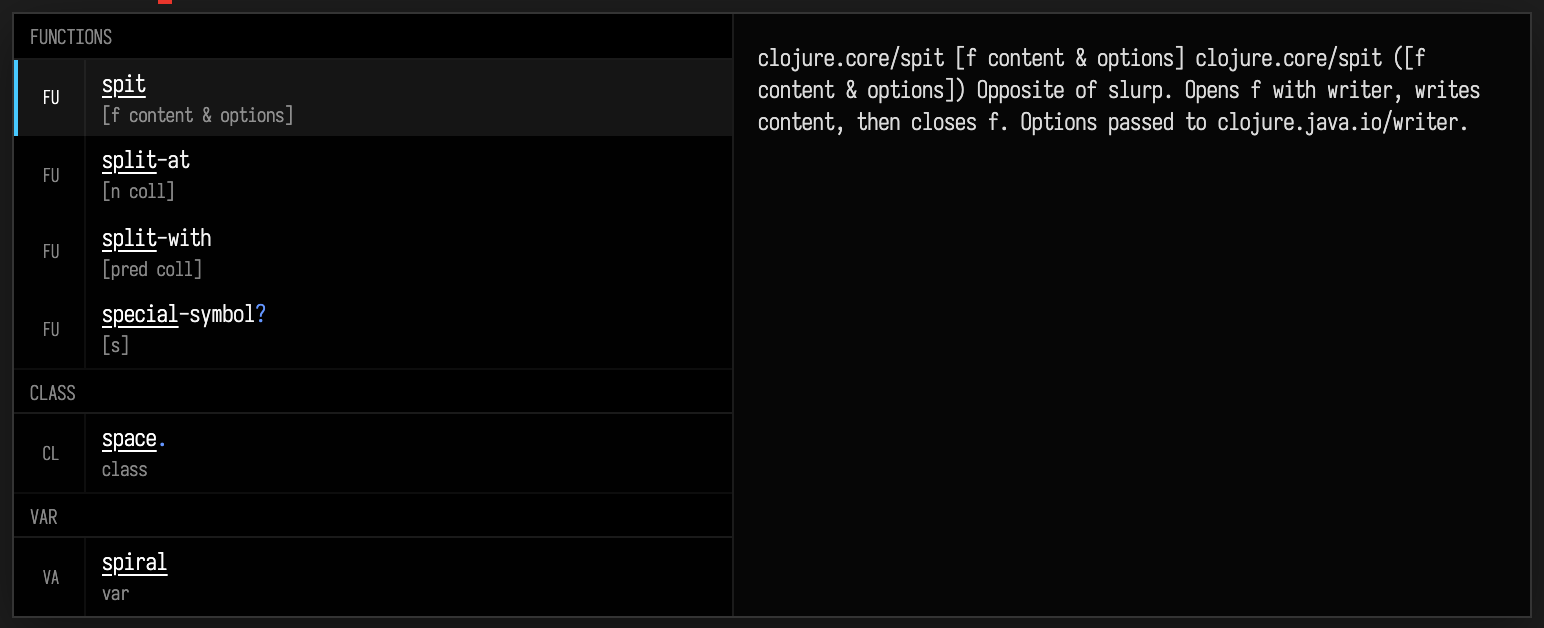
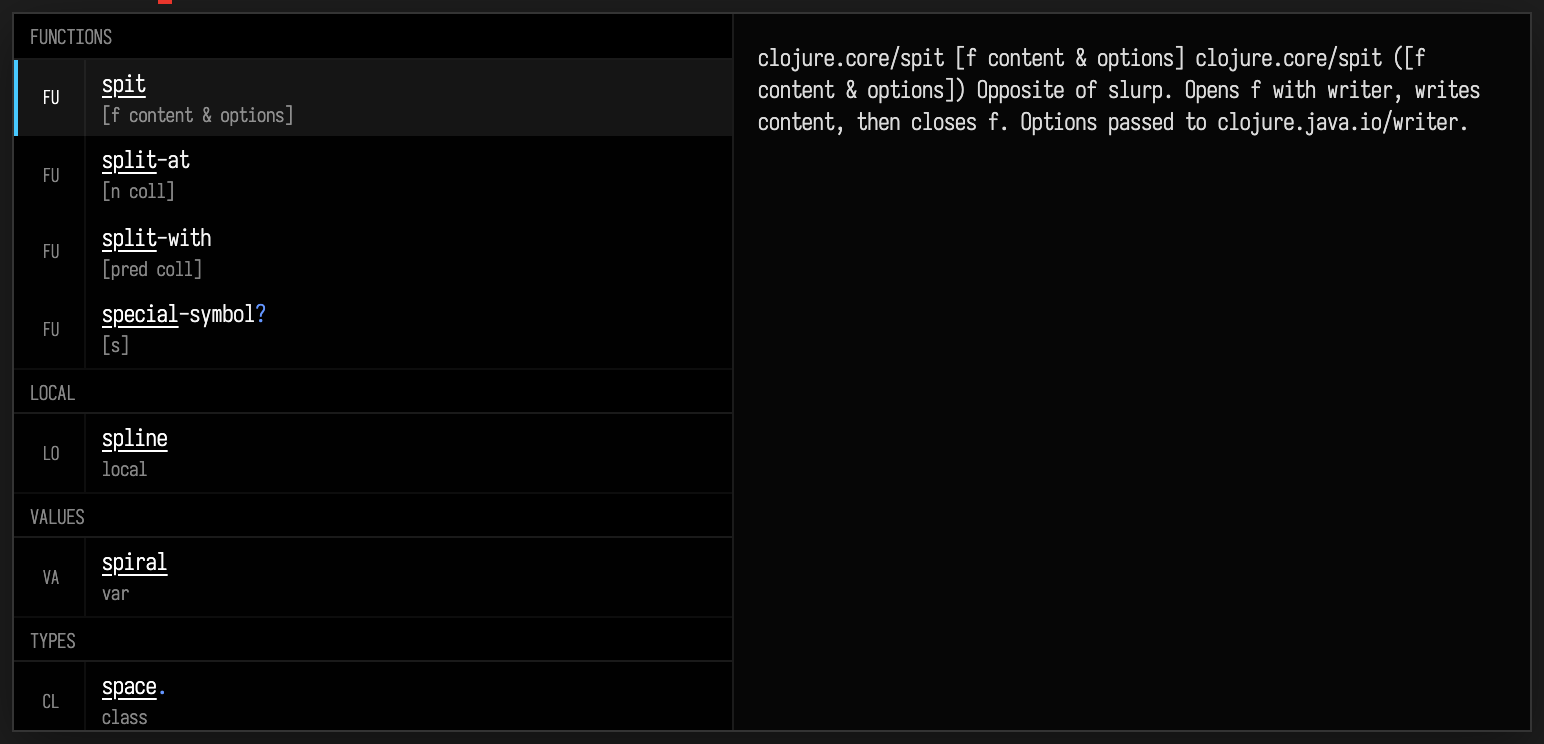
clojure completion: keep the context readable, and give the popup categories it ranks
The local completion the page's figure was supposed to show was never in the payload.
Two independent causes, and the first one is why a unit test could not see it.

**The context has to read, and the text after the caret is not yours.** Compliment can
only know about a `let` binding, a `fn` parameter or a `doseq` variable from the
`:context` string, and it answers a context it cannot read with globals only and no
complaint — so this fails as "locals sometimes work", which looks like the feature
working. The context was the whole buffer with the caret's prefix marked and the open
brackets closed. Logging `CompletionRequest.allCode` from the live server behind the
docs figure gave the buffer a real editor actually sends:

    cursor=53 of 54  code=(let [spline (polyline [[0 0] [10 10]])]\n  (lines [sp)

That trailing `)` is Monaco auto-closing `(lines`, sitting where the `[` wants its `]`.
Closing what is still open then produced `[__prefix__)))`, which does not read — hence
`types={function=4, class=1, var=1}` and no local. The fix is to build the context from
the code **up to** the caret: every form the caret is inside opens before it, so the tail
carries no scope, and in an editor the tail is whatever auto-closing left behind. Same
caret now yields `(lines [__prefix__]))` and the binding is there.

Every completion assertion in `ClojureHostTest` passed a string that stops at the caret,
[…]

Changed region(s): [[0.0, 0.0, 0.9637, 0.8169], [0.4974, 0.0605, 0.9637, 0.2118], [0.0, 0.8169, 0.4663, 0.9984]]

diff --git a/src/jvmMain/kotlin/afield/clojure/ClojureInterface.kt b/src/jvmMain/kotlin/afield/clojure/ClojureInterface.kt
@@ -122,6 +122,33 @@ sealed class EvalResult {
     data class Err(val error: CompileError) : EvalResult()
 }
 
+/**
+ * Compliment's kind of thing, said in the completion popup's own vocabulary.
+ *
+ * `Metadata.category` is not a label: it is the key `CATEGORY_WEIGHT` in
+ * `src/commonMain/resources/fieldSuggest.js` is looked up by, and a name that table does not know
+ * scores **0** — the same as "other". Handing Compliment's own words over unmapped therefore looked
+ * fine, because the popup will title-case anything into a group header (`class` got a group called
+ * "Class"), while ranking every Clojure candidate as bottom-of-the-list filler. `local` is the one
+ * that matters most: that table scores it 28, above every other category, on the grounds that a name
+ * the reader bound two lines up is the best answer a popup can give. It was arriving with no weight
+ * at all.
+ *
+ * A type this does not know keeps its own spelling rather than collapsing to "other", so a new
+ * Compliment source appears under its own header instead of joining a pile. [ClojureHostTest] pins
+ * every mapping here against the shipped table, so a rename on either side is a test failure rather
+ * than a silent demotion.
+ */
+internal fun clojureCompletionCategory(type: String?): String = when (val kind = type?.trim()?.lowercase()) {
+    null, "" -> ""
+    "local" -> "local"
+    "function", "macro", "special-form", "method", "static-method" -> "functions"
+    "var", "keyword", "field", "static-field" -> "values"
+    "class", "import" -> "types"
+    "namespace" -> "imports"
+    else -> kind
+}
+
 
 // ---------- Helper to safely call Clojure Vars ----------
 private fun varv(ns: String, name: String): Var = Clojure.`var`(ns, name) as Var
@@ -542,27 +569,34 @@ class ClojureHost(private val defaultNs: String = "user") {
     }
 
     /**
-     * The code around the cursor, with the prefix replaced by `__prefix__` and **closed**.
+     * The code **up to** the cursor, with the prefix replaced by `__prefix__`, closed.
      *
      * Compliment reads this to work out what the caret is inside, which is the only way it can know
      * about a local: a `let` binding, a `fn` parameter, a `doseq` variable. It has to *read* it, and
      * code being typed rarely reads — a caret at the end of `(let [spiral 1]\n  (lines [sp` sits
-     * inside three unclosed brackets.
+     * inside three unclosed brackets. So the brackets still open at the caret are closed, by walking
+     * the text with a bracket stack and appending their closers.
      *
-     * So this closes them, by walking the text with a bracket stack and appending the missing
-     * closers. Measured before and after on the same eight shapes: unclosed, Compliment found the
-     * local for a trivial binding (`[spiral 1]`) and lost it the moment the binding's value was
-     * itself a form (`[spiral (polyline [[0 0]])]`), in every caret position. Closed, it finds it in
-     * all of them. That "sometimes" is worse than either alternative, because it looks like the
-     * feature working.
+     * **The text after the caret is dropped, and that is the load-bearing half.** Every form the
+     * caret is inside opens *before* it, so the tail carries no scope — and in a real editor the
+     * tail is not the reader's text at all, it is whatever Monaco's auto-closing left there. The
+     * buffer measured from a live Clojure box on 2026-09-13 was
+     * `(let [spline (polyline [[0 0] [10 10]])]\n  (lines [sp)` — note the final `)`, auto-inserted
+     * for `(lines` and now sitting where the `[` wants its `]`. Kept, that tail makes the context
+     * `[__prefix__)))`, which does not read, and Compliment answers a context it cannot read with
+     * globals only and no complaint: the popup listed functions, a class and a var, and not the
+     * local two lines up. Dropped, the same caret gets `(lines [__prefix__]))` and the local is
+     * there. Every unit test that passes a string ending at the caret was already exercising the
+     * good case, which is why this survived one.
      *
      * Strings, character literals and `;` comments are skipped rather than scanned, so a `"("` or a
      * `\(` does not open anything. The caller still treats a rejection as "no context" — this makes
      * the good case common, it does not promise the string reads.
      */
     private fun completionContext(code: String, cursor: Int, prefix: String): String {
-        val start = (cursor - prefix.length).coerceIn(0, code.length)
-        val marked = code.substring(0, start) + "__prefix__" + code.substring(cursor.coerceIn(0, code.length))
+        val caret = cursor.coerceIn(0, code.length)
+        val start = (caret - prefix.length).coerceIn(0, caret)
+        val marked = code.substring(0, start) + "__prefix__"
         return marked + closersFor(marked)
     }
 
@@ -1068,7 +1102,7 @@ class ClojureExecution(val inside: Box) : BoxExecution {
                 documentation = completionDocumentation(it),
                 text = it.candidate,
                 displayText = it.displayText ?: "",
-                category = it.type ?: "",
+                category = clojureCompletionCategory(it.type),
                 prefix = it.ns ?: ""
             )
         }

diff --git a/src/jvmTest/kotlin/afield/clojure/ClojureHostTest.kt b/src/jvmTest/kotlin/afield/clojure/ClojureHostTest.kt
@@ -200,4 +200,81 @@ class ClojureHostTest {
         assertEquals(listOf("called" to 1), invoked.out)
         assertEquals(":done", invoked.ok.result.printed)
     }
+
+    /**
+     * The buffer a *real* editor sends, which is not the buffer a test would think to write.
+     *
+     * Recorded on 2026-09-13 from the live server behind `public/docs/clojure.md`'s completion
+     * figure, by logging `CompletionRequest.allCode` and its cursor. Monaco's auto-closing had
+     * inserted a `)` for `(lines` and left it sitting where the `[` wants its `]`, so the text
+     * after the caret is neither the reader's nor balanced — and the caret is at 53 of 54, not at
+     * the end. Every other completion assertion in this file passes a string that stops at the
+     * caret, which is exactly the case that always worked: the popup in that figure listed
+     * functions, a class and a var, and no local, while the same caret in a test found one.
+     */
+    @Test
+    fun `a local is offered in the buffer a live editor actually sends`() {
+        val buffer = "(let [spline (polyline [[0 0] [10 10]])]\n  (lines [sp)"
+        val caret = 53
+        assertEquals(54, buffer.length, "the recorded buffer is 54 chars; the caret is one short of it")
+        assertEquals("sp", buffer.substring(caret - 2, caret), "the caret sits just after the prefix")
+
+        val candidates = host().complete(buffer, caret).mapNotNull { it.displayText }
+        assertTrue("spline" in candidates, "the let binding is not offered: $candidates")
+        assertTrue("split-at" in candidates, "core names are not offered either: $candidates")
+    }
+
+    /**
+     * The categories this runtime emits have to be names `CATEGORY_WEIGHT` scores, and that table
+     * ships in `fieldSuggest.js` — so it is read here rather than restated. A Clojure candidate
+     * whose category the client does not know still *renders* (the popup title-cases anything into
+     * a header), it just ranks at zero alongside "other", which is how `local` — the highest-scoring
+     * category there is — spent its first day as filler.
+     */
+    @Test
+    fun `every category this runtime emits is one the popup ranks`() {
+        val weighted = categoryWeightNames()
+        assertTrue("local" in weighted, "read the wrong table: $weighted")
+
+        // Compliment's own vocabulary, from `compliment.sources`: the types a candidate can carry.
+        val fromCompliment = listOf(
+            "local", "function", "macro", "special-form", "method", "static-method",
+            "var", "keyword", "field", "static-field", "class", "import", "namespace",
+        )
+        for (type in fromCompliment) {
+            val category = clojureCompletionCategory(type)
+            assertTrue(
+                category in weighted,
+                "Compliment's `$type` maps to `$category`, which CATEGORY_WEIGHT does not score: $weighted"
+            )
+        }
+
+        assertEquals("local", clojureCompletionCategory("local"))
+        assertEquals("functions", clojureCompletionCategory("function"))
+        assertEquals("values", clojureCompletionCategory("var"))
+        assertEquals("types", clojureCompletionCategory("class"))
+        assertEquals("", clojureCompletionCategory(null))
+        // An unknown type keeps its own spelling, so it gets its own header rather than joining
+        // "other" — and shows up in this test's failure message if Compliment grows a source.
+        assertEquals("sorcery", clojureCompletionCategory("Sorcery"))
+    }
+
+    /** The category names `src/commonMain/resources/fieldSuggest.js` scores above zero. */
+    private fun categoryWeightNames(): Set<String> {
+        val js = java.io.File(repoRoot(), "src/commonMain/resources/fieldSuggest.js").readText()
+        val table = Regex("""const CATEGORY_WEIGHT = new Map\(\[(.*?)]\);""", RegexOption.DOT_MATCHES_ALL)
+            .find(js)?.groupValues?.get(1)
+            ?: error("could not find CATEGORY_WEIGHT in fieldSuggest.js")
+        return Regex(""""([^"]+)",\s*(\d+)""").findAll(table)
+            .filter { it.groupValues[2].toInt() > 0 }
+            .map { it.groupValues[1] }
+            .toSet()
+    }
+
+    /** The checkout root, found by walking up to the directory holding `settings.gradle.kts`. */
+    private fun repoRoot(): java.io.File {
+        var dir: java.io.File? = java.io.File(".").absoluteFile
+        while (dir != null && !java.io.File(dir, "settings.gradle.kts").exists()) dir = dir.parentFile
+        return dir ?: error("no settings.gradle.kts above ${java.io.File(".").absolutePath}")
+    }
 }

diff --git a/public/docs/clojure.md b/public/docs/clojure.md
@@ -336,18 +336,20 @@ useful and one that is merely present:
   `field.core` already referred, so completion works in a box that has never been run;
 - **`:extra-metadata`**, so each candidate carries its `arglists` and its docstring, which is what
   the panel beside the popup shows;
-- **the surrounding form, as `:context`**, with the caret's prefix replaced by Compliment's
-  `__prefix__` marker. That is what lets it offer a `let` binding, a `fn` parameter or a `doseq`
-  variable, none of which any amount of namespace introspection can know. It is also the part that
-  can fail, because half-typed code does not read, so a rejection falls back to "globals only"
-  rather than to nothing.
+- **the code up to the caret, as `:context`**, with the prefix replaced by Compliment's
+  `__prefix__` marker and the brackets still open at the caret closed for it. That is what lets it
+  offer a `let` binding, a `fn` parameter or a `doseq` variable, none of which any amount of
+  namespace introspection can know. Two details, both learned the hard way: the context has to
+  *read*, and a context that does not read is answered with globals only and no complaint — so
+  "locals sometimes work" is the shape this failure takes. And the text *after* the caret is
+  dropped, because in a real editor that text is not yours: auto-closing has already put a `)`
+  where your `[` wants its `]`.
 
-```diffstatic_runner {data-lang=kotlin capture="ui" region="window" clip-selector=".afield-suggest" screenshot="assets/clojure/completion.png" transcript="assets/transcripts/clojure_completion_setup.yaml" padding="6" wait="0" timeout="180" embed=true hidden=true name="clojure-completion" alt="Field's completion popup in a Clojure box at the prefix sp, grouped by kind. Under FUNCTIONS: spit, split-at, split-with and special-symbol?, each with its argument vector in grey underneath. Then a CLASS, and a VAR named spiral. The panel to the right reads clojure.core/spit, its argument vector, and its docstring."}
-// The subject is the *shape* of a Clojure candidate — name, argument vector, docstring — so this
-// types an ordinary prefix and photographs the answer. The `let` binding is here because the code
-// under the caret should be code somebody would write, not because the figure claims to show it
-// being completed: `spiral` in the VAR group is a var this page's spiral fence left in the shared
-// namespace, and locals are asserted where they can be measured, in ClojureHostTest.
+```diffstatic_runner {data-lang=kotlin capture="ui" region="window" clip-selector=".afield-suggest" screenshot="assets/clojure/completion.png" transcript="assets/transcripts/clojure_completion_setup.yaml" padding="6" wait="0" timeout="180" embed=true hidden=true name="clojure-completion" alt="Field's completion popup in a Clojure box at the prefix sp, grouped by kind. Under FUNCTIONS: spit, split-at, split-with and special-symbol?, each with its argument vector in grey underneath. Then LOCAL, holding spline — the let binding two lines up. Then VALUES, holding a var named spiral, and TYPES, holding a class. The panel to the right reads clojure.core/spit, its argument vector, and its docstring."}
+// An ordinary prefix, in code with a `let` binding in scope, so one figure carries both halves of
+// what a Clojure candidate is: the shape of one (name, argument vector, docstring) and where it
+// came from (core, the binding two lines up, and — as `spiral` under VALUES — a var an earlier box
+// on this page left in the shared namespace).
 ui.eval("window.localStorage.removeItem('field.suggest.recency.v1'); var s=document.createElement('style');s.textContent='.tick_text{display:none !important}';document.head.appendChild(s);return 'setup';")
 ui.openEditor("clojure_completion")
 ui.pause(900)
@@ -368,10 +370,12 @@ ui.waitForSelector(".afield-suggest-row", 20000.0)
 ui.pause(1400)
 ```
 
-Each row carries its own argument vector, and the panel beside the list carries the docstring.
-That is `:extra-metadata` arriving: `clojure.core/spit [f content & options]` is Compliment's answer
-verbatim, not a signature Field reconstructed. `spiral` in the VAR group is a var an earlier box on
-this page defined, which is the shared namespace above showing through.
+Three of those groups are the three inputs above, in one popup. Each row carries its own argument
+vector and the panel carries the docstring, which is `:extra-metadata` arriving —
+`clojure.core/spit [f content & options]` is Compliment's answer verbatim, not a signature Field
+reconstructed. **`spline` under LOCAL is the `let` binding two lines up**, which is `:context` being
+read. And `spiral` under VALUES is a var an earlier box on this page defined, which is the shared
+namespace showing through.
 
 Completion is the one part of this language that is allowed to be absent: if Compliment is not on
 the classpath, a Clojure box still runs, and the popup is empty rather than broken.
